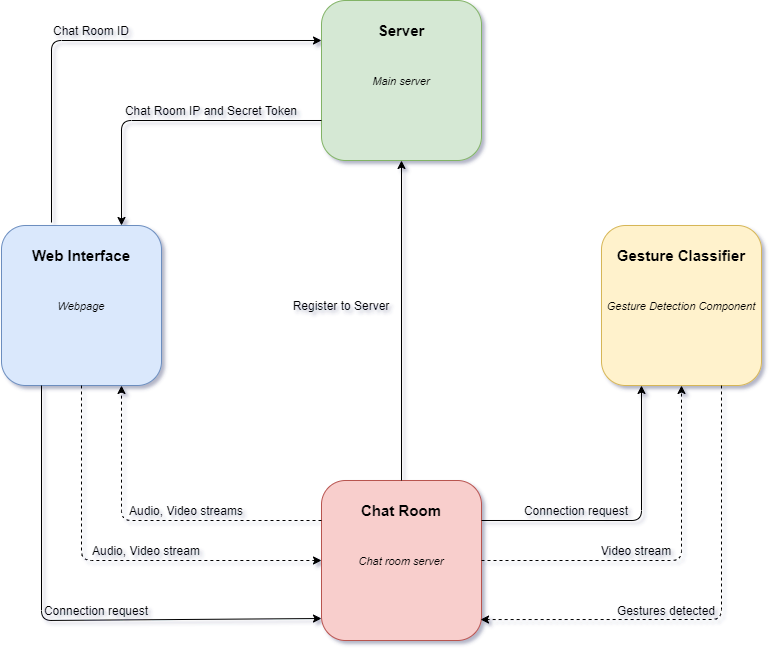
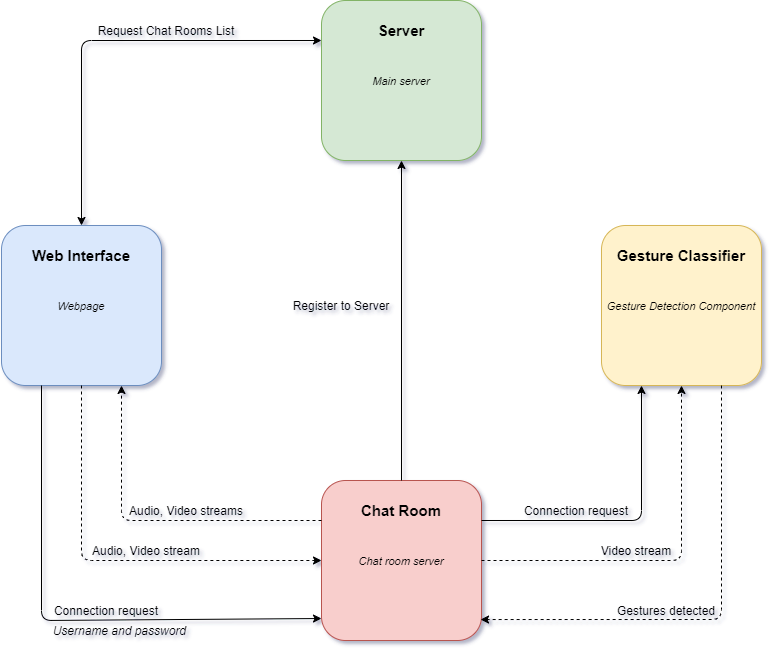
Components diagrams updated

Changed region(s): [[0.0621, 0.9202, 0.2484, 0.9816], [0.0621, 0.0307, 0.3105, 0.092], [0.1552, 0.1534, 0.4036, 0.2147]]

diff --git a/src/classifier/__init__.py b/src/classifier/__init__.py
@@ -1,0 +1,6 @@
+class Classifier:
+    def __init__(self, addr, port):
+        pass
+
+    def start(self):
+        pass

diff --git a/src/chatroom/__init__.py b/src/chatroom/__init__.py
@@ -1,0 +1,6 @@
+class Chatroom:
+    def __init__(self, addr, port):
+        pass
+
+    def start(self):
+        pass

diff --git a/src/server/__init__.py b/src/server/__init__.py
@@ -1,0 +1,7 @@
+class Server:
+
+    def __init__(self, addr, port):
+        pass
+
+    def start(self):
+        pass
